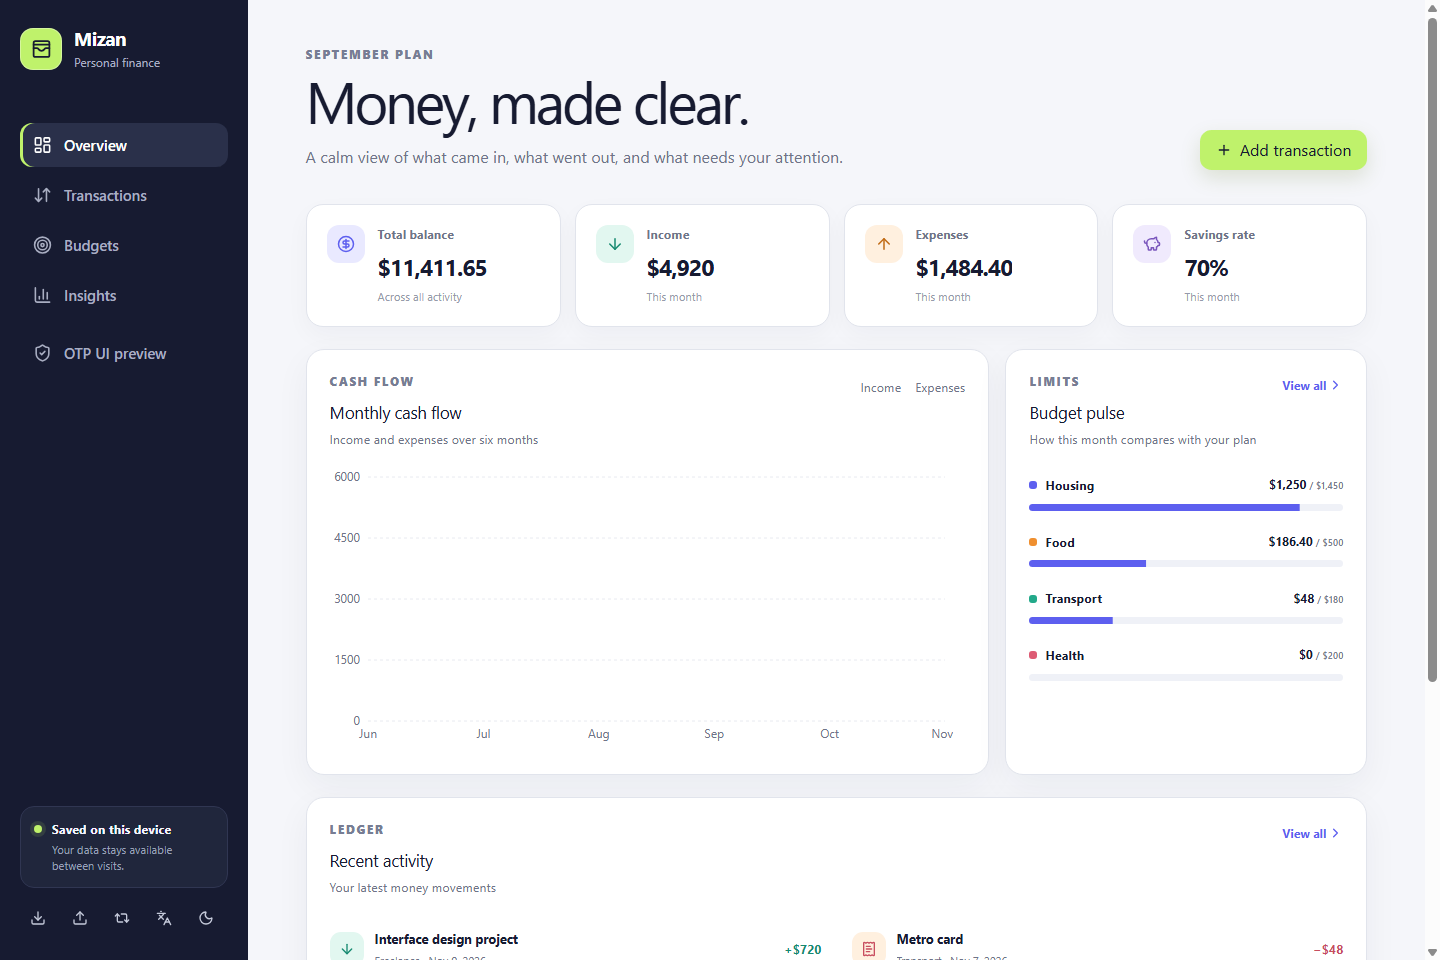
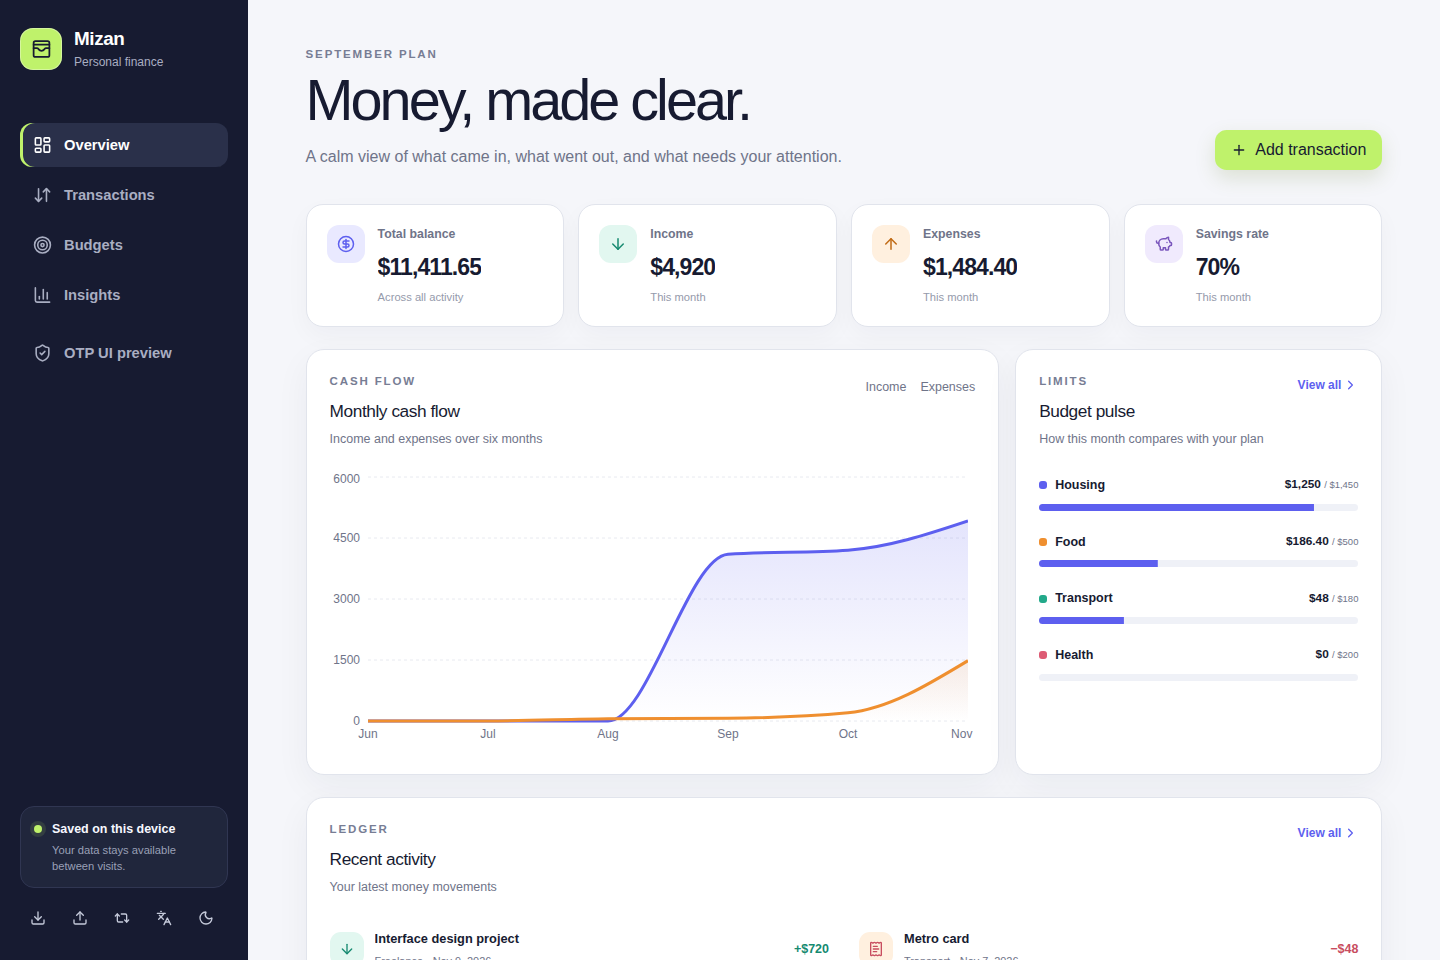
fix(visual): replace blank Mizan chart screenshot with exact reviewed dashboard

diff --git a/app/work/[slug]/page.tsx b/app/work/[slug]/page.tsx
@@ -66,7 +66,7 @@ export default async function CaseStudyPage({ params }: PageProps) {
         ? {width:840,height:529}
         : {width:1200,height:630};
   const coverCaption = slug === "mizan"
-    ? "Screenshot of the local application with sample data."
+    ? "Screenshot of the local static build, with bundled sample transactions and both rendered cash-flow curves. Captured on 25 November 2026 (Istanbul time)."
     : slug === "fitflow"
       ? "Real guided interval timer captured from the public FitFlow demo on 24 November 2026; no account or personal data."
       : slug === "bookhaven"

diff --git a/app/experience/FeaturedShowcase.tsx b/app/experience/FeaturedShowcase.tsx
@@ -57,9 +57,9 @@ const FEATURED: readonly FeaturedProject[] = [
       tr: "Harcama ve bütçe kararlarını kolaylaştıran, RTL destekli, gizlilik odaklı finans paneli.",
     },
     imageNote: {
-      en: "Real interface · bundled demo data",
-      ar: "واجهة حقيقية · بيانات تجريبية",
-      tr: "Gerçek arayüz · örnek veriler",
+      en: "Real chart · bundled demo data",
+      ar: "رسم بياني حقيقي · بيانات تجريبية",
+      tr: "Gerçek grafik · örnek veriler",
     },
   },
 ] as const;

diff --git a/docs/MIZAN_VISUAL_CORRECTION.md b/docs/MIZAN_VISUAL_CORRECTION.md
@@ -1,0 +1,14 @@
+# Mizan capture correction
+
+The previous portfolio image contained a blank chart. The replacement is the actual Mizan dashboard from public source commit 8e33fededbdfc4144b22b6c2608cd066378e44ed, in a fresh, isolated browser context at 1440 x 960. No accounts, imports or real financial data were used.
+
+- Vinext production build passed. Cloudflare Workers/Miniflare preview could not start in the CI environment; independent Next.js static export succeeded using the project's existing configuration.
+- Screenshot script waited for two valid nonempty Recharts paths, four metric cards and bundled sample transactions. A second reviewed screenshot shows six budget tiles.
+- Capture and visual evidence: https://github.com/rahman-997/portfolio/actions/runs/45493015890
+- Exact image transfer: https://github.com/rahman-997/portfolio/actions/runs/45500102048
+- Approved dashboard PNG SHA-256: e812540bd66598d8019b7b54f4f2a932f97fd0d0582d2366f843bccaa5bd3783
+- The original PNG is retained without manipulation. Its digest must match the reviewed bytes in source and export.
+
+Known source UI issue: the English dashboard eyebrow is statically labelled SEPTEMBER PLAN while the sample cash-flow series is relative to the capture month. This is a Mizan copy issue, not a broken chart. It remains outside this portfolio-only change; no modification to Mizan's own source or deployment.
+
+The temporary screenshot-transfer workflow is removed. The capture script remains review-only. No paid service, production change or merge.

diff --git a/README.md b/README.md
@@ -43,7 +43,7 @@ Featured projects link to source code and engineering case studies where availab
 
 - FitFlow and Mizan now lead the public project library; the upstream fork remains explicitly identified.
 - Mizan has a standalone engineering case study and appears in the three-language evidence section.
-- Mizan preview is an authentic screenshot captured from a freshly cloned app in an isolated browser profile, showing bundled demo transactions; no personal account data.
+- Mizan preview is an authentic, reviewed screenshot of the source app's independent Next.js static export, with both cash-flow curves rendered and bundled demo transactions only. The exact approved PNG is hash-pinned in the export checks.
 - FitFlow preview uses the manually reviewed public guided interval timer screenshot, captured on 24 November 2026. The previous incomplete hero photograph was replaced; the exact approved WebP is hash-pinned in the export checks.
 - Mizan's historical demo URL is **not treated as verified**; no public demo button appears in its case study.
 - English, Arabic RTL, and Turkish copy leads with frontend experience, accessibility, UI/UX and React.
